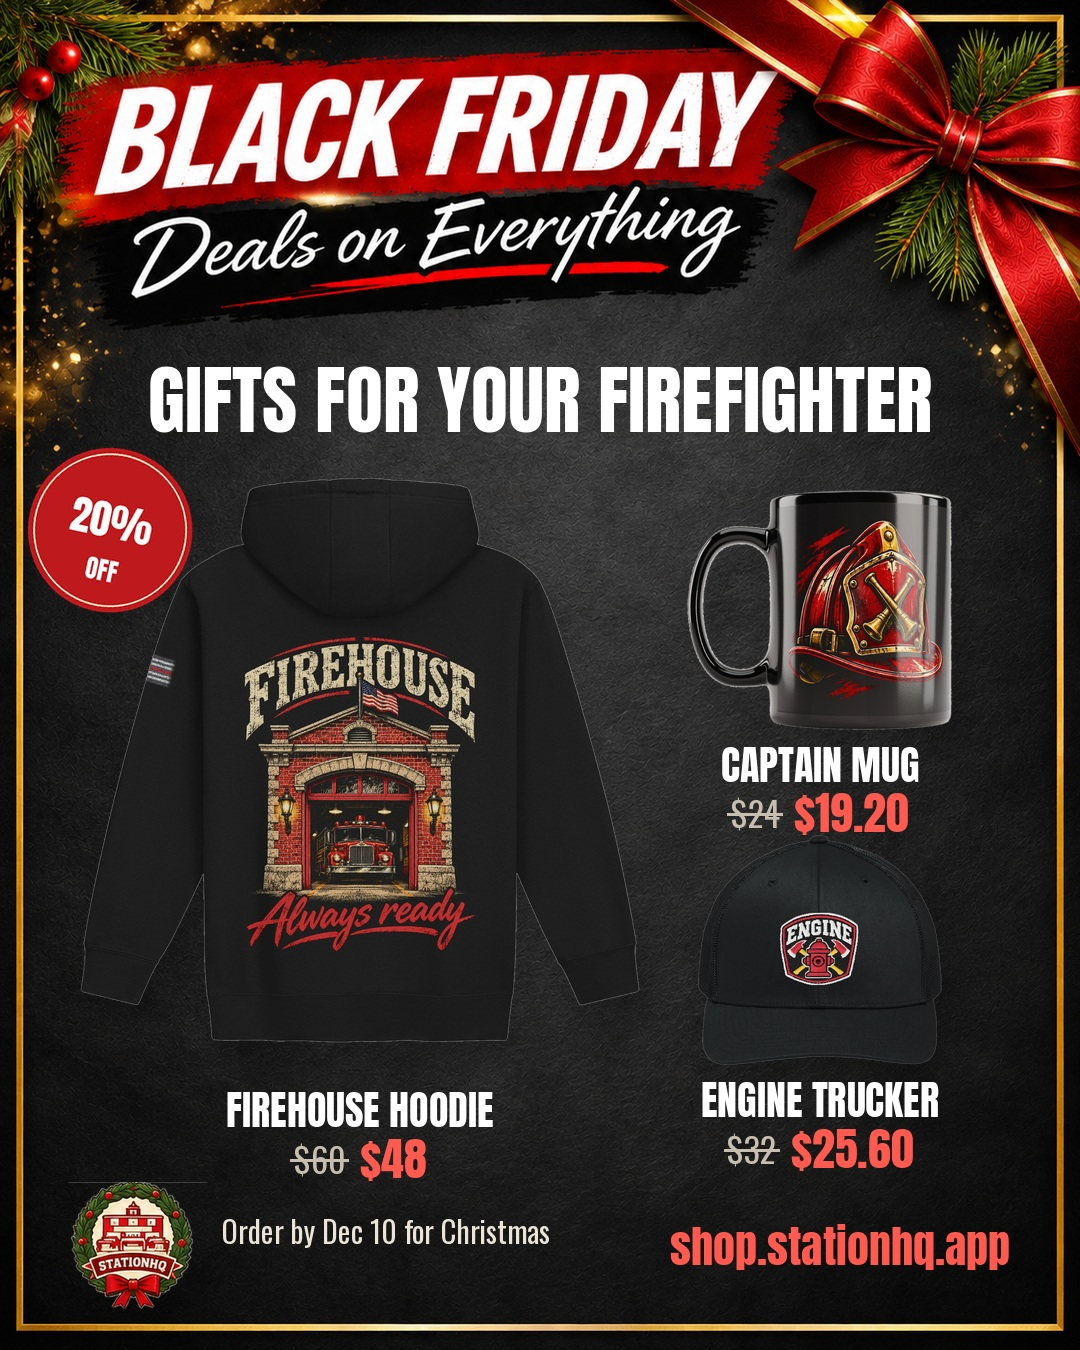
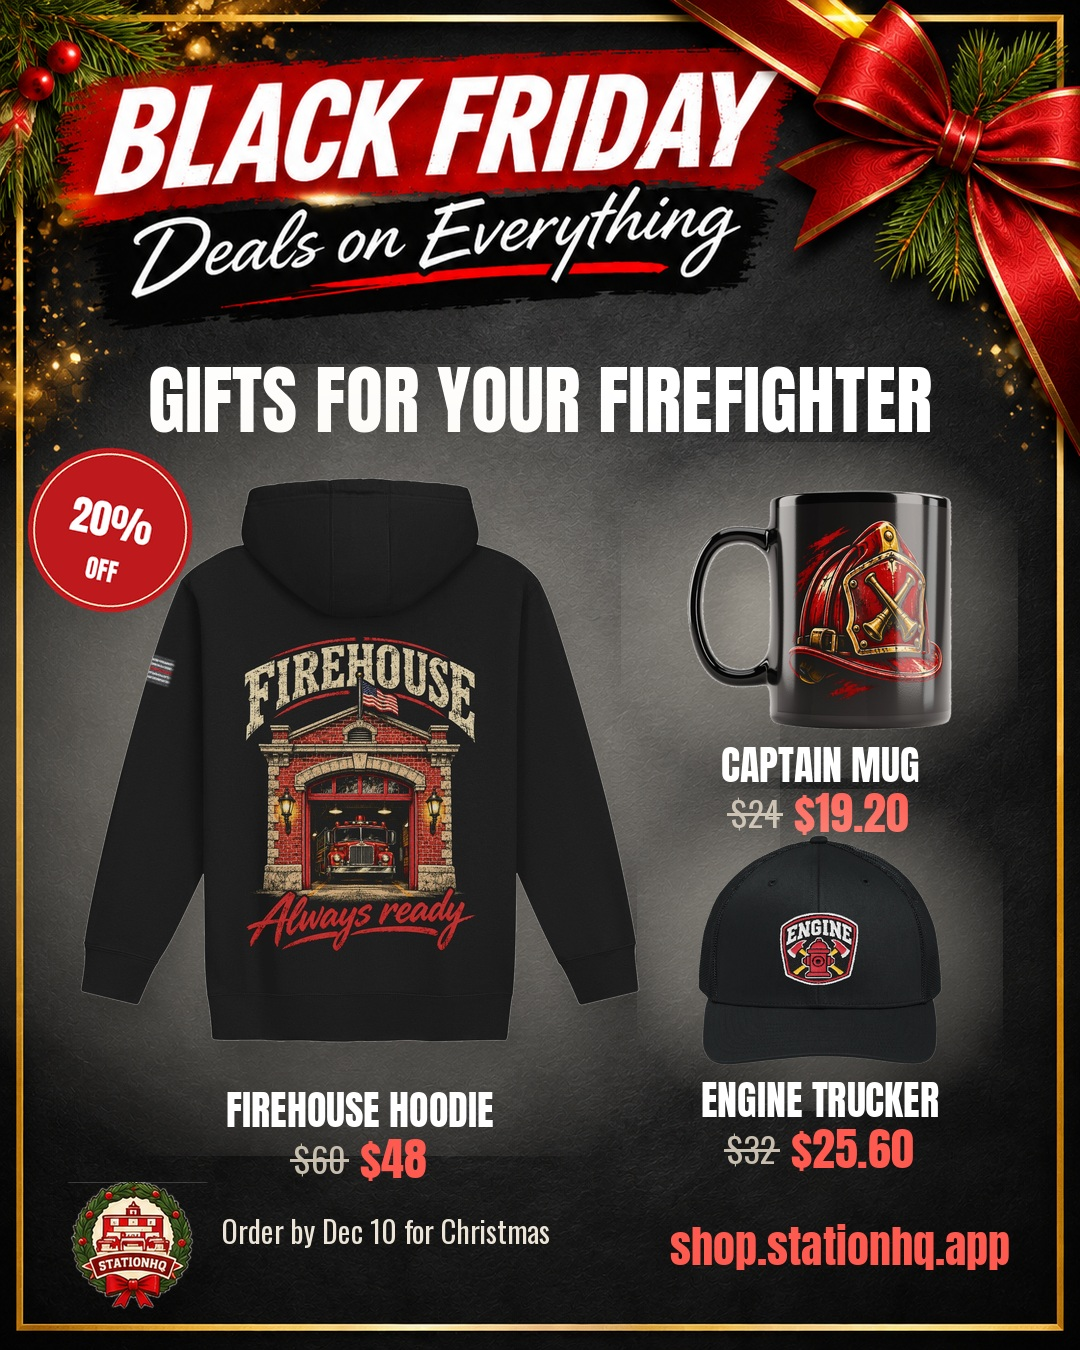
Black Friday mixed-item ads (gym line, books, kids, stocking stuffers)
Claude-Session: https://claude.ai/code/session_019hAQwsAPzfriaFpaAttWio

Changed region(s): [[0.0, 0.28, 0.9472, 0.8711]]

diff --git a/content/blackfriday/build.py b/content/blackfriday/build.py
@@ -21,6 +21,9 @@ SM = lambda s: font('Oswald.ttf', s)
 _cache = {}
 def cutout(name):
     if name in _cache: return _cache[name]
+    if name.startswith('book:'):
+        b = Image.open('/home/claude/remote/brand/shop/web/' + name[5:]).convert('RGBA')
+        _cache[name] = b; return b
     im = Image.open(f'{P}/{name}.jpg').convert('RGB')
     a = np.asarray(im).astype(int)
     light = a.min(2) > 226
@@ -39,11 +42,16 @@ def cutout(name):
     _cache[name] = rgba
     return rgba
 
-def place(base, name, cx, cy, box):
+def place(base, name, cx, cy, box, glow=False):
     p = cutout(name)
     s = min(box[0] / p.width, box[1] / p.height)
     p = p.resize((int(p.width * s), int(p.height * s)), Image.LANCZOS)
     x, y = int(cx - p.width / 2), int(cy - p.height / 2)
+    if glow:
+        gw, gh = int(p.width * 1.5), int(p.height * 1.4)
+        g = Image.radial_gradient('L').resize((gw, gh)).point(lambda v: max(0, int((255 - v) * 0.85) - 40))
+        lay = Image.new('RGBA', (gw, gh), (245, 236, 220, 0)); lay.putalpha(g)
+        base.alpha_composite(lay, (int(cx - gw / 2), int(cy - gh / 2)))
     # soft contact shadow
     sh = Image.new('RGBA', (p.width + 80, p.height + 80), (0, 0, 0, 0))
     a = p.split()[3].point(lambda v: int(v * 0.42))
@@ -120,25 +128,26 @@ MUGS = [('probie-mug_1', 'PROBIE', 24), ('firefighter-mug_1', 'FIREFIGHTER', 24)
 HATS = [('engine-company-trucker_1', 'ENGINE', 32), ('ladder-company-trucker_1', 'LADDER', 32),
         ('rescue-company-trucker_1', 'RESCUE', 32), ('shq-firehouse-badge-beanie_1', 'FIREHOUSE BEANIE', 28)]
 
-grid('wood', 'A MUG FOR EVERY RANK', MUGS, 3, (290, 210), 355, 545, 'Order by Dec 10 for Christmas').save(f'{OUT}/bf_mugs_wood.jpg', quality=94)
-grid('paper', 'PICK YOUR COMPANY', HATS, 2, (360, 260), 380, 590, 'Order by Dec 10 for Christmas').save(f'{OUT}/bf_hats_paper.jpg', quality=94)
-grid('snow', 'PICK YOUR COMPANY', HATS, 2, (360, 260), 380, 590, 'Order by Dec 10 for Christmas').save(f'{OUT}/bf_hats_snow.jpg', quality=94)
-grid('stripe', 'A MUG FOR EVERY RANK', MUGS, 3, (280, 205), 355, 545, 'Order by Dec 10 for Christmas').save(f'{OUT}/bf_mugs_stripe.jpg', quality=94)
-
 # Gift layouts: hoodie hero + mug + hat
 def gifts(key, dark=False):
     b = bg(key)
     headline(b, 'GIFTS FOR YOUR FIREFIGHTER', 400, dark)
-    place(b, 'firehouse-hoodie_2', 360, 760, (560, 640))
+    place(b, 'firehouse-hoodie_2', 360, 760, (560, 640), glow=dark)
     label(b, 360, 1110, 'FIREHOUSE HOODIE', dark); sale_tag(b, 360, 1158, 60, dark)
-    place(b, 'captain-mug_1', 820, 610, (300, 240))
+    place(b, 'captain-mug_1', 820, 610, (300, 240), glow=dark)
     label(b, 820, 765, 'CAPTAIN MUG', dark); sale_tag(b, 820, 812, 24, dark)
-    place(b, 'engine-company-trucker_1', 820, 950, (300, 230))
+    place(b, 'engine-company-trucker_1', 820, 950, (300, 230), glow=dark)
     label(b, 820, 1100, 'ENGINE TRUCKER', dark); sale_tag(b, 820, 1148, 32, dark)
     badge(b, 110, 530)
     footer(b, 'Order by Dec 10 for Christmas', dark)
     return b.convert('RGB')
 
-gifts('dark', True).save(f'{OUT}/bf_gifts_dark.jpg', quality=94)
-gifts('kraft').save(f'{OUT}/bf_gifts_kraft.jpg', quality=94)
-print('done', DISC)
+if __name__ == '__main__':
+    grid('wood', 'A MUG FOR EVERY RANK', MUGS, 3, (290, 210), 355, 545, 'Order by Dec 10 for Christmas').save(f'{OUT}/bf_mugs_wood.jpg', quality=94)
+    grid('paper', 'PICK YOUR COMPANY', HATS, 2, (360, 260), 380, 590, 'Order by Dec 10 for Christmas').save(f'{OUT}/bf_hats_paper.jpg', quality=94)
+    grid('snow', 'PICK YOUR COMPANY', HATS, 2, (360, 260), 380, 590, 'Order by Dec 10 for Christmas').save(f'{OUT}/bf_hats_snow.jpg', quality=94)
+    grid('stripe', 'A MUG FOR EVERY RANK', MUGS, 3, (280, 205), 355, 545, 'Order by Dec 10 for Christmas').save(f'{OUT}/bf_mugs_stripe.jpg', quality=94)
+    
+    gifts('dark', True).save(f'{OUT}/bf_gifts_dark.jpg', quality=94)
+    gifts('kraft').save(f'{OUT}/bf_gifts_kraft.jpg', quality=94)
+    print('done', DISC)

diff --git a/content/blackfriday/mixed.py b/content/blackfriday/mixed.py
@@ -1,0 +1,75 @@
+"""Mixed-item Black Friday ads (shop items 20% off + books on Amazon)."""
+import sys
+sys.argv = [sys.argv[0], '20']
+from build import *  # noqa
+
+def fit_headline(b, text, y, dark=False, maxw=760, size=78):
+    d = ImageDraw.Draw(b)
+    while d.textlength(text, font=BIG(size)) > maxw and size > 44: size -= 2
+    d.text((W // 2 - 60, y), text, font=BIG(size), fill='white' if dark else (24, 22, 20), anchor='mm')
+
+def item(b, it, cx, cy, box, dark=False):
+    name, lab, price, note = it
+    x, y, w, h = place(b, name, cx, cy, box, glow=dark)
+    ly = y + h + 34
+    label(b, cx, ly, lab, dark)
+    if price is not None:
+        sale_tag(b, cx, ly + 46, price, dark)
+    else:
+        d = ImageDraw.Draw(b)
+        d.text((cx, ly + 44), note, font=BIG(36), fill=(255, 90, 80) if dark else RED, anchor='mm')
+
+def ad(key, head, layout, items, out, dark=False):
+    b = bg(key)
+    fit_headline(b, head, 400, dark)
+    badge(b, W - 115, 400, r=80)
+    for it, (cx, cy, bw, bh) in zip(items, layout):
+        item(b, it, cx, cy, (bw, bh), dark)
+    footer(b, 'Order by Dec 10 for Christmas', dark)
+    b.convert('RGB').save(f'{OUT}/{out}.jpg', quality=94)
+
+# layouts: (cx, cy, box_w, box_h) — cy is product center
+GRID4 = [(290, 595, 380, 230), (790, 595, 380, 230), (290, 960, 380, 230), (790, 960, 380, 230)]
+HERO3 = [(360, 740, 540, 560), (820, 600, 290, 210), (820, 930, 290, 210)]
+ROW32 = [(200, 600, 290, 220), (540, 600, 290, 220), (880, 600, 290, 220), (330, 930, 340, 240), (750, 930, 340, 240)]
+
+COLOR = ('book:book_coloring.webp', 'COLORING BOOK', None, '$9.99 ON AMAZON')
+NOZZLE = ('book:book_nozzle.webp', "NOZZLE'S BIG NIGHT", None, 'ON AMAZON')
+
+ad('snow', 'FOR THE FIREFIGHTER WHO TRAINS', GRID4, [
+    ('shq-fit-stencil-tee_1', 'SHQ FIT STENCIL TEE', 28, ''),
+    ('shq-fit-stencil-tee-light_1', 'STENCIL TEE · OLIVE', 28, ''),
+    ('shq-fit-rope-cap_1', 'SHQ FIT ROPE CAP', 34, ''),
+    ('shq-fit-tag-tee_1', 'SHQ FIT TAG TEE', 28, ''),
+], 'bf_gym_snow')
+
+ad('wood', 'FOR THE WHOLE FIREHOUSE FAMILY', ROW32, [
+    ('firehouse-hoodie_2', 'FIREHOUSE HOODIE', 60, ''),
+    ('captain-mug_1', 'CAPTAIN MUG', 24, ''),
+    ('engine-company-trucker_1', 'ENGINE TRUCKER', 32, ''),
+    ('nozzle-kids-tee_1', 'NOZZLE KIDS TEE', 24, ''),
+    NOZZLE,
+], 'bf_family_wood')
+
+ad('stripe', 'STOCKING STUFFERS', GRID4, [
+    ('sticker-pack-12_1', '12-STICKER PACK', 14, ''),
+    ('probie-mug_1', 'PROBIE MUG', 24, ''),
+    COLOR,
+    ('shq-firehouse-badge-beanie_1', 'FIREHOUSE BEANIE', 28, ''),
+], 'bf_stockings_stripe')
+
+ad('paper', 'FOR THE JUNIOR FIREFIGHTER', HERO3, [
+    ('nozzle-kids-tee_1', 'NOZZLE KIDS TEE', 24, ''),
+    COLOR, NOZZLE,
+], 'bf_kids_paper')
+
+ad('kraft', 'SOMETHING FOR EVERY FIREFIGHTER', ROW32, [
+    ('shq-firehouse-badge-beanie_1', 'BEANIE', 28, ''),
+    ('chief-mug_1', 'CHIEF MUG', 24, ''),
+    ('shq-fit-stencil-tee_1', 'SHQ FIT TEE', 28, ''),
+    ('firehouse-tee_1', 'FIREHOUSE TEE', 36, ''),
+    ('sticker-pack-12_1', '12-STICKER PACK', 14, ''),
+], 'bf_everything_kraft')
+
+gifts('dark', True).save(f'{OUT}/bf_gifts_dark.jpg', quality=94)
+print('ok')
